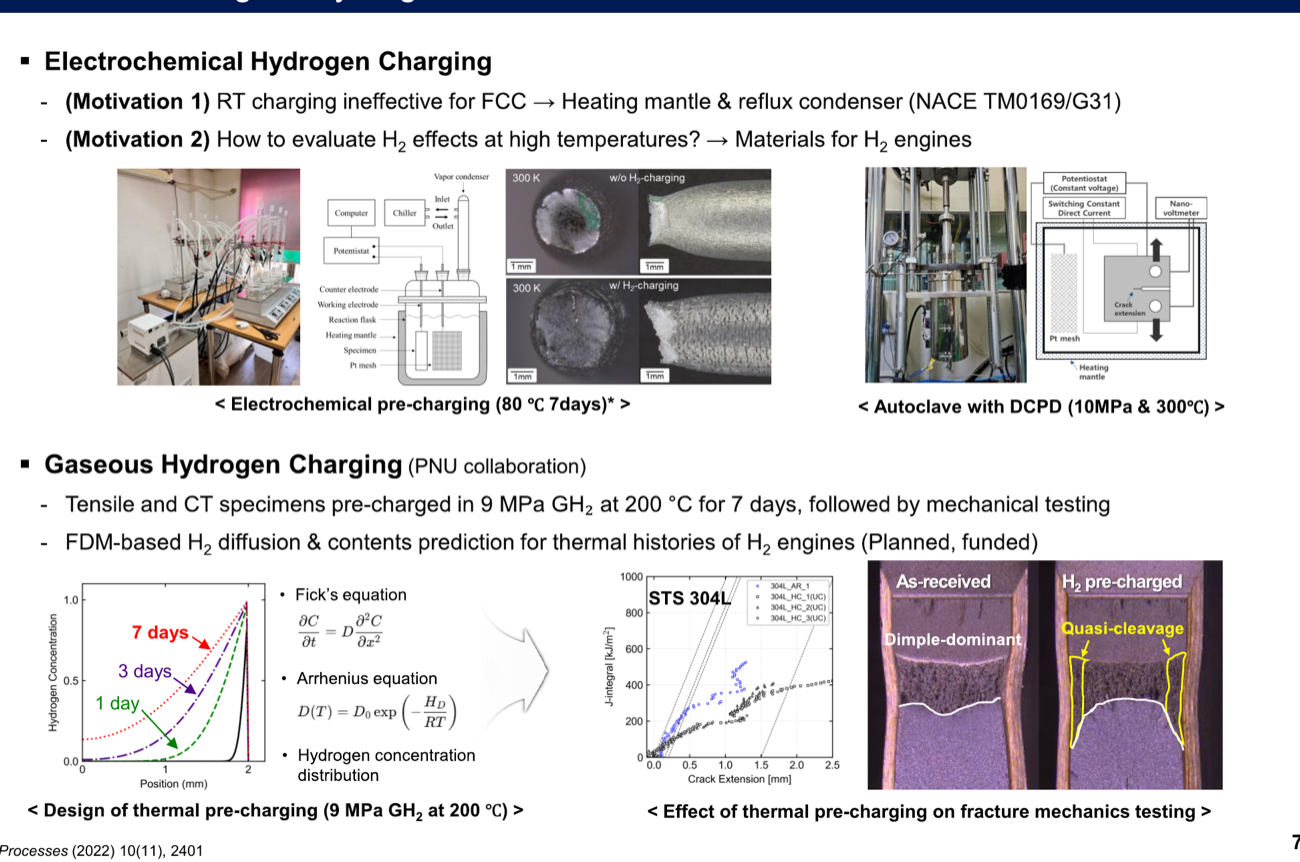
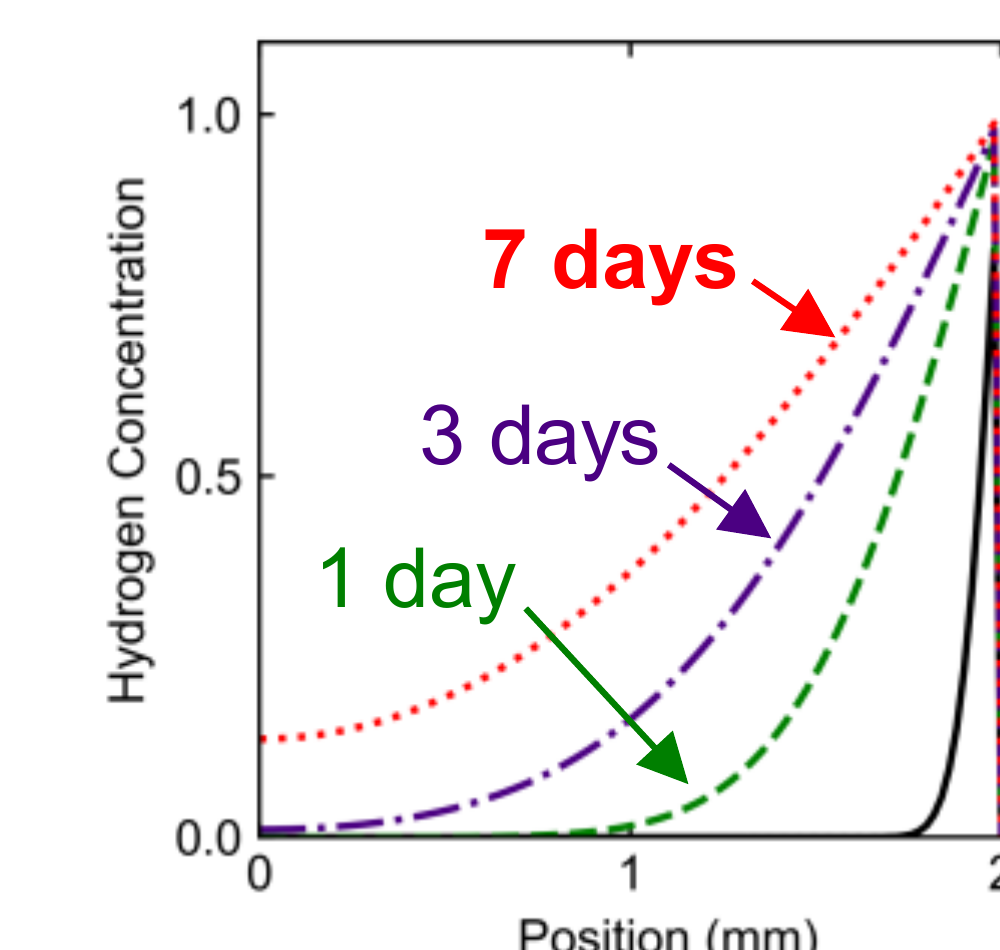
Research page: mirror KRISS slide-4 layout with clean high-res figure panels
- Restructure into four research-area blocks (text + figure), matching the
  presentation's Research Area overview; short itemized bullets only, no prose.
- Replace all slide-screenshot figures (which baked in slide text/captions)
  with cleanly cropped, high-resolution image-only panels.

Claude-Session: https://claude.ai/code/session_01Qn9nEs3pCzrnVyZARVCeCe

diff --git a/_pages/research.md b/_pages/research.md
@@ -1,130 +1,64 @@
 ---
 layout: page
 permalink: /research/
-title: Research
-description: 
+title: Research Field
+description:
 nav: true
 nav_order: 1
 ---
 
-My work spans experimental evaluation of materials in extreme environments,
-physics-based modelling of damage and failure, and machine-learning methods for
-prediction and inverse characterization. The main areas:
+<div class="row align-items-center mt-4 mb-5">
+  <div class="col-md-8">
+    <h2>Cryogenic Materials and Structures</h2>
+    <ul>
+      <li>20 K tensile, fatigue, and fracture-toughness testing</li>
+      <li>Metals and composites for liquid-hydrogen service</li>
+      <li>Stress-state-dependent computational mechanics</li>
+    </ul>
+  </div>
+  <div class="col-md-4">
+    {% include figure.liquid loading="eager" path="assets/img/research/cryogenic.png" class="img-fluid rounded z-depth-1" %}
+  </div>
+</div>
 
-- **Cryogenic and hydrogen materials evaluation** — mechanical and fracture-toughness testing of metals at 20 K and under hydrogen, for liquid-hydrogen service.
-- **Measurement accuracy and standardization** — operator-independent property determination and contributions to material test standards.
-- **Computational damage mechanics** — stress-state-dependent ductile-damage and fracture models implemented as finite-element subroutines.
-- **Machine learning for solid mechanics** — neural networks for inverse material characterization, constitutive modelling, and full-field surrogate simulation.
+<div class="row align-items-center mb-5">
+  <div class="col-md-7">
+    <h2>Material Testing for Hydrogen Environments</h2>
+    <ul>
+      <li>Electrochemical hydrogen charging at elevated temperature</li>
+      <li>High-temperature autoclave testing (10 MPa, 300 &deg;C)</li>
+      <li>Diffusion-based design of hydrogen pre-charging</li>
+    </ul>
+  </div>
+  <div class="col-md-5">
+    {% include figure.liquid path="assets/img/research/hydrogen.png" class="img-fluid rounded z-depth-1" %}
+  </div>
+</div>
 
----
+<div class="row align-items-center mb-5">
+  <div class="col-md-6">
+    <h2>Safety Guidelines for Material Compatibility</h2>
+    <ul>
+      <li>Ship hydrogen fuel-cell guidelines (Ministry of Oceans and Fisheries)</li>
+      <li>High-manganese-steel ammonia compatibility review (IMO)</li>
+      <li>Hydrogen-ship material guidelines (Korean Register)</li>
+    </ul>
+  </div>
+  <div class="col-md-6">
+    {% include figure.liquid path="assets/img/research/safety.png" class="img-fluid rounded z-depth-1" %}
+  </div>
+</div>
 
-## Cryogenic Material Testing
-
-{% include figure.liquid loading="eager" path="assets/img/research/cryo_machine.png" class="img-fluid rounded z-depth-1" %}
-
-- Built and operated an integrated liquid-hydrogen test capability: a 20 K tensile and fatigue testing machine with a helium re-liquefaction loop, one of the few such capabilities in Korea.
-- Addressed the practical measurement issues of 20 K testing: extensometer and clip-on gauge calibration, helium leakage, thermal shrinkage, and specimen sizing.
-- Evaluated austenitic stainless steels (304L, 316L), aluminum alloys, and nickel alloys across temperature (room temperature, 110 K, 77 K, 20 K) and hydrogen-charging conditions.
-
-{% include figure.liquid path="assets/img/research/cryo_fracture.png" class="img-fluid rounded z-depth-1" %}
-
-- Measured tensile and J-resistance fracture toughness at 20 K, comparing the unloading-compliance and normalization methods with crack-length correction.
-
-**Open issues being studied**
-
-- Coolant environment: gaseous helium versus liquid hydrogen at 20 K. Serrated yielding seen in helium is largely absent in liquid hydrogen, attributed to the higher specific heat of the liquid; the test environment itself can affect the measured behaviour.
-- Indirect toughness assurance from 77 K to 20 K. ASME BPVC permits sub-77 K service from 77 K Charpy data alone, but NASA and NIST studies show poor correlation with the 20 K fracture toughness, so direct 20 K evidence is needed.
-
----
-
-## Hydrogen-Environment Materials Testing
-
-{% include figure.liquid path="assets/img/research/hydrogen.png" class="img-fluid rounded z-depth-1" %}
-
-- Electrochemical hydrogen charging at elevated temperature (heating mantle with reflux condenser) to reach much higher pre-charged hydrogen than room-temperature charging, with charging conditions set from diffusion theory rather than empirically.
-- High-temperature, high-pressure gaseous hydrogen testing for hydrogen-engine components, using an in-situ autoclave with direct-current potential drop crack monitoring (about 10 MPa, 300 °C).
-- Related the change in fracture mode from dimple-dominated to quasi-cleavage to the absorbed hydrogen.
-
-{% include figure.liquid path="assets/img/research/hydrogen_design.png" class="img-fluid rounded z-depth-1" %}
-
-- Designed gaseous-charging conditions with a validated hydrogen-diffusion model (San Marchi recommended properties for 304/316, with Abel–Noble and fugacity corrections for real-gas behaviour).
-- Computed the time to reach 90 % core saturation as a function of charging temperature and specimen size (for example, about 17 days at 200 °C for a 2 mm radius, and a few days at 300 °C), and the surface saturation concentration from Sieverts' law.
-- Predicted the residual hydrogen content and through-thickness profile of tensile and compact-tension specimens after charging and air cooling, accounting for geometry differences between the gauge and grip sections.
-
----
-
-## Measurement Accuracy and Operator-Independent Evaluation
-
-{% include figure.liquid path="assets/img/research/measurement.png" class="img-fluid rounded z-depth-1" %}
-
-- Automated, operator-independent determination of mechanical properties to remove subjective judgement: elastic-modulus slope determination based on ASTM E3076 and compliance evaluation based on ASTM E1820 Annex X3.
-- Custom jig and procedure for calibrating the extensometer and crack-opening-displacement gauge at 20 K.
-- Corrected the apparent reduction of crack length in J-resistance testing of high-toughness 316L, identifying under-estimated specimen rotation as the cause through telecentric imaging of the crack front; this matches a current topic at NIST.
-
----
-
-## Computational Damage Mechanics and Ductile Fracture
-
-{% include figure.liquid path="assets/img/research/damage.png" class="img-fluid rounded z-depth-1" %}
-
-- Ductile-failure prediction with a user-defined material (UMAT) subroutine and a three-dimensional fracture locus, taking material fracture as the design criterion for containment structures.
-- Workflow from specimens of varying stress state: flow-stress calculation in the necking region, damage-initiation determination against force–displacement data, and calibration of the fracture locus.
-
-{% include figure.liquid path="assets/img/research/damage_evo.png" class="img-fluid rounded z-depth-1" %}
-
-- Stress-state-dependent damage formulated through stress triaxiality and the normalized Lode angle, with the evolution law derived from a dissipation potential.
-- Unloading–reloading tensile tests to identify damage evolution, including a single-step method for measuring the elastic modulus.
-- Predicts the necking response and crack initiation and direction of 304L stainless steel that commercial codes do not capture.
-
-*Related work: International Journal of Solids and Structures 318, 113439 (2025); Metals (2022); Journal of Constructional Steel Research (2019).*
-
----
-
-## Machine Learning for Material Characterization and Constitutive Modelling
-
-{% include figure.liquid path="assets/img/research/ml_indentation.png" class="img-fluid rounded z-depth-1" %}
-
-- Neural networks that recover constitutive parameters (elastic modulus, yield strength, and hardening parameters) from a single spherical-indentation load–depth curve together with the residual surface imprint.
-- An extension that recovers the in-plane residual stress at the same time, separating two effects that classical indentation analysis cannot tell apart.
-- A way to measure properties where standard specimens are not available, such as miniature samples or extreme-environment conditions.
-
-{% include figure.liquid path="assets/img/research/constitutive_nn.png" class="img-fluid rounded z-depth-1" %}
-
-- A neural-network-integrated elastoplastic constitutive model for J2 plasticity that predicts the updated stress, trial yield function, and plastic multiplier from the trial-state stress and the current equivalent plastic strain.
-- The stress state is expressed in Haigh–Westergaard coordinates, which reduces the number of inputs and eases the out-of-distribution problem.
-- This gives 39 to 48 percent better accuracy than a principal-stress formulation, with stronger extrapolation; training data are generated in Python from stress invariants without commercial finite-element software.
-
-*Related work: Journal of Applied Mechanics 93(3), 031008 (2026); International Journal of Pressure Vessels and Piping, under review (2026); Engineering Science and Technology, an International Journal 69, 102104 (2025).*
-
----
-
-## Graph-Neural-Network Surrogates for Transient Multi-Physics
-
-{% include figure.liquid path="assets/img/research/gnn.png" class="img-fluid rounded z-depth-1" %}
-
-- A label-free graph-neural-network surrogate for moving-heat-source problems, supervised by the weak form of the governing heat equation and trained by rollout, so that pre-computed simulation datasets are not required.
-- Online sampling of randomized conditions through Gaussian-random-field augmentation, covering moving heat sources representative of welding, line heating, and additive manufacturing.
-- On a domain ten times larger than the training domain, the surrogate predicted about 11,000 time steps with under 1 percent relative error while running roughly 200 times faster than the finite-element solver.
-- The longer-term aim is to invert these physics-constrained surrogates, recovering material properties or process parameters from limited full-field measurements such as infrared or digital-image-correlation data.
-
-*Related work: manuscript in preparation (2026).*
-
----
-
-## Standards and Regulation Contributions
-
-{% include figure.liquid path="assets/img/research/standards.png" class="img-fluid rounded z-depth-1" %}
-
-- Material-compatibility input to Korea's interim guidelines for ship hydrogen fuel-cell systems and to the IMO review of high-manganese-steel ammonia compatibility testing.
-- Material selection and test-procedure guidelines for hydrogen-fuelled and liquid-hydrogen ships, developed with the Korean Register.
-- Technical guidebooks for the shipbuilding industry on metallic-material selection, liquid-hydrogen compatibility, and cryogenic insulation evaluation.
-
----
-
-## Cryogenic Insulation and Autonomous Ship Systems
-
-{% include figure.liquid path="assets/img/research/insulation_mass.png" class="img-fluid rounded z-depth-1" %}
-
-- Advanced polyurethane-foam insulation with improved mechanical strength and thermal performance, evaluated against manufacturing conditions such as additive type, weight ratio, and density.
-- Impact-resistance evaluation of LNG insulation panels under repetitive loading and cryogenic-to-ambient temperature gradients, including a registered patent and guidance for reinforced-foam assessment under sloshing loads.
-- Maritime autonomous surface ship systems, including an automated mooring system (rubber-seal selection and vacuum suction-pad design) and an automated hull-inspection robot.
+<div class="row align-items-center mb-5">
+  <div class="col-md-5">
+    <h2>AI for Accurate and Rapid Prediction</h2>
+    <ul>
+      <li>Inverse identification of material properties and residual stress</li>
+      <li>Graph-neural-network surrogate for transient thermo-mechanical analysis</li>
+      <li>Around 200 times faster than finite-element solvers</li>
+    </ul>
+  </div>
+  <div class="col-md-7">
+    {% include figure.liquid path="assets/img/research/ai.png" class="img-fluid rounded z-depth-1" %}
+  </div>
+</div>
